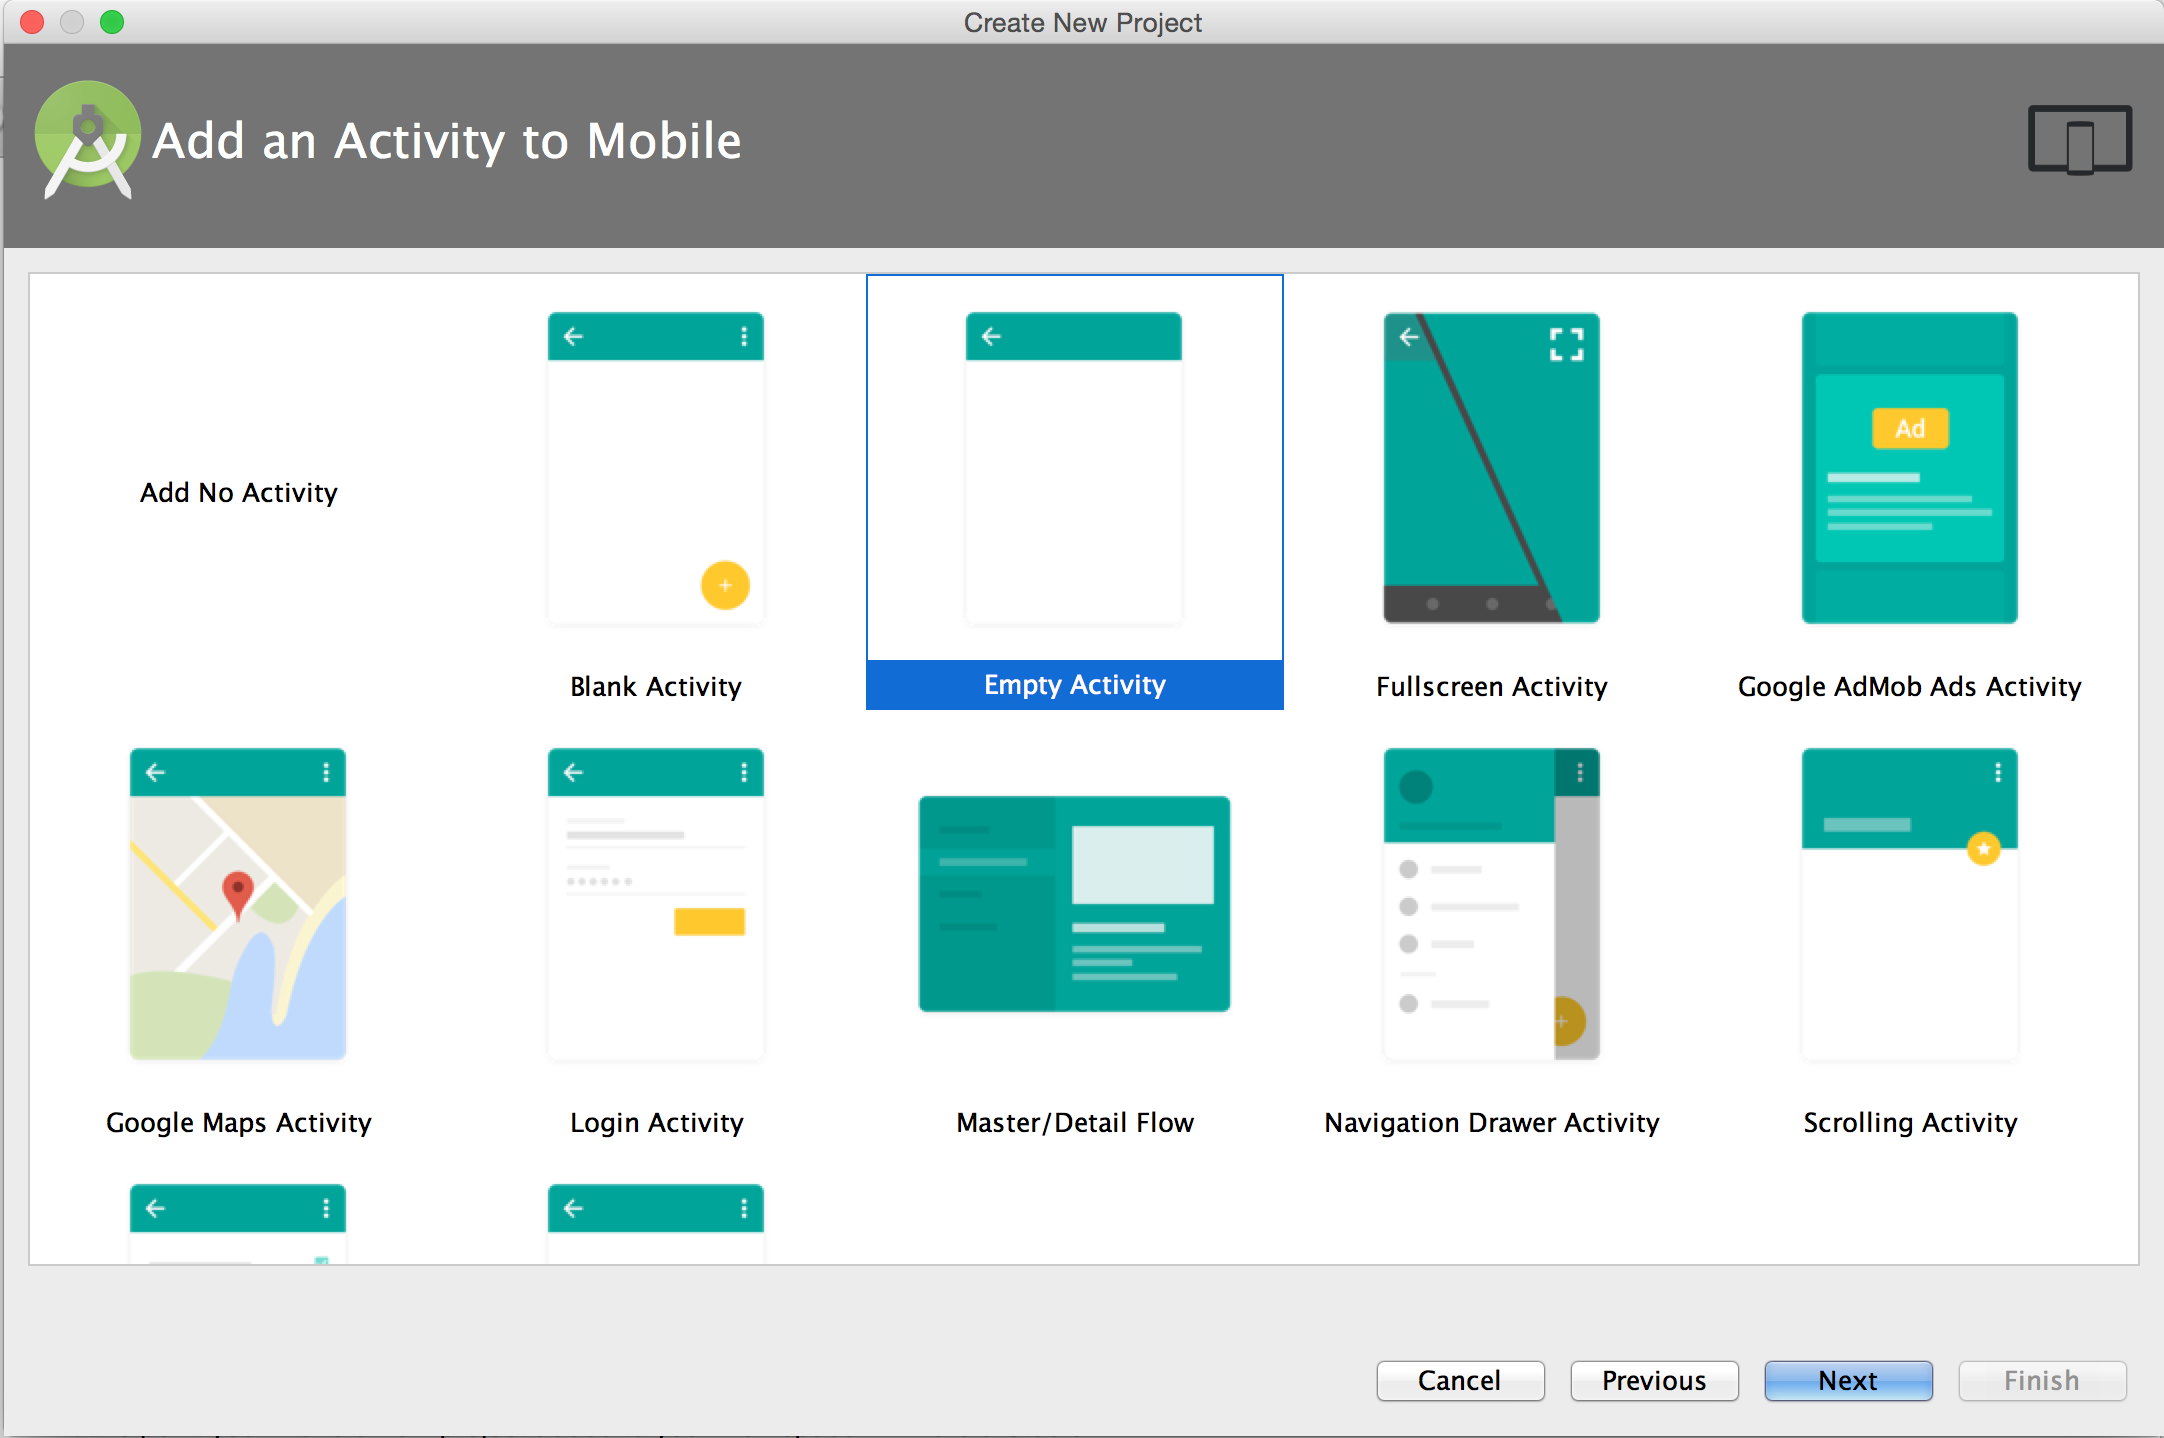
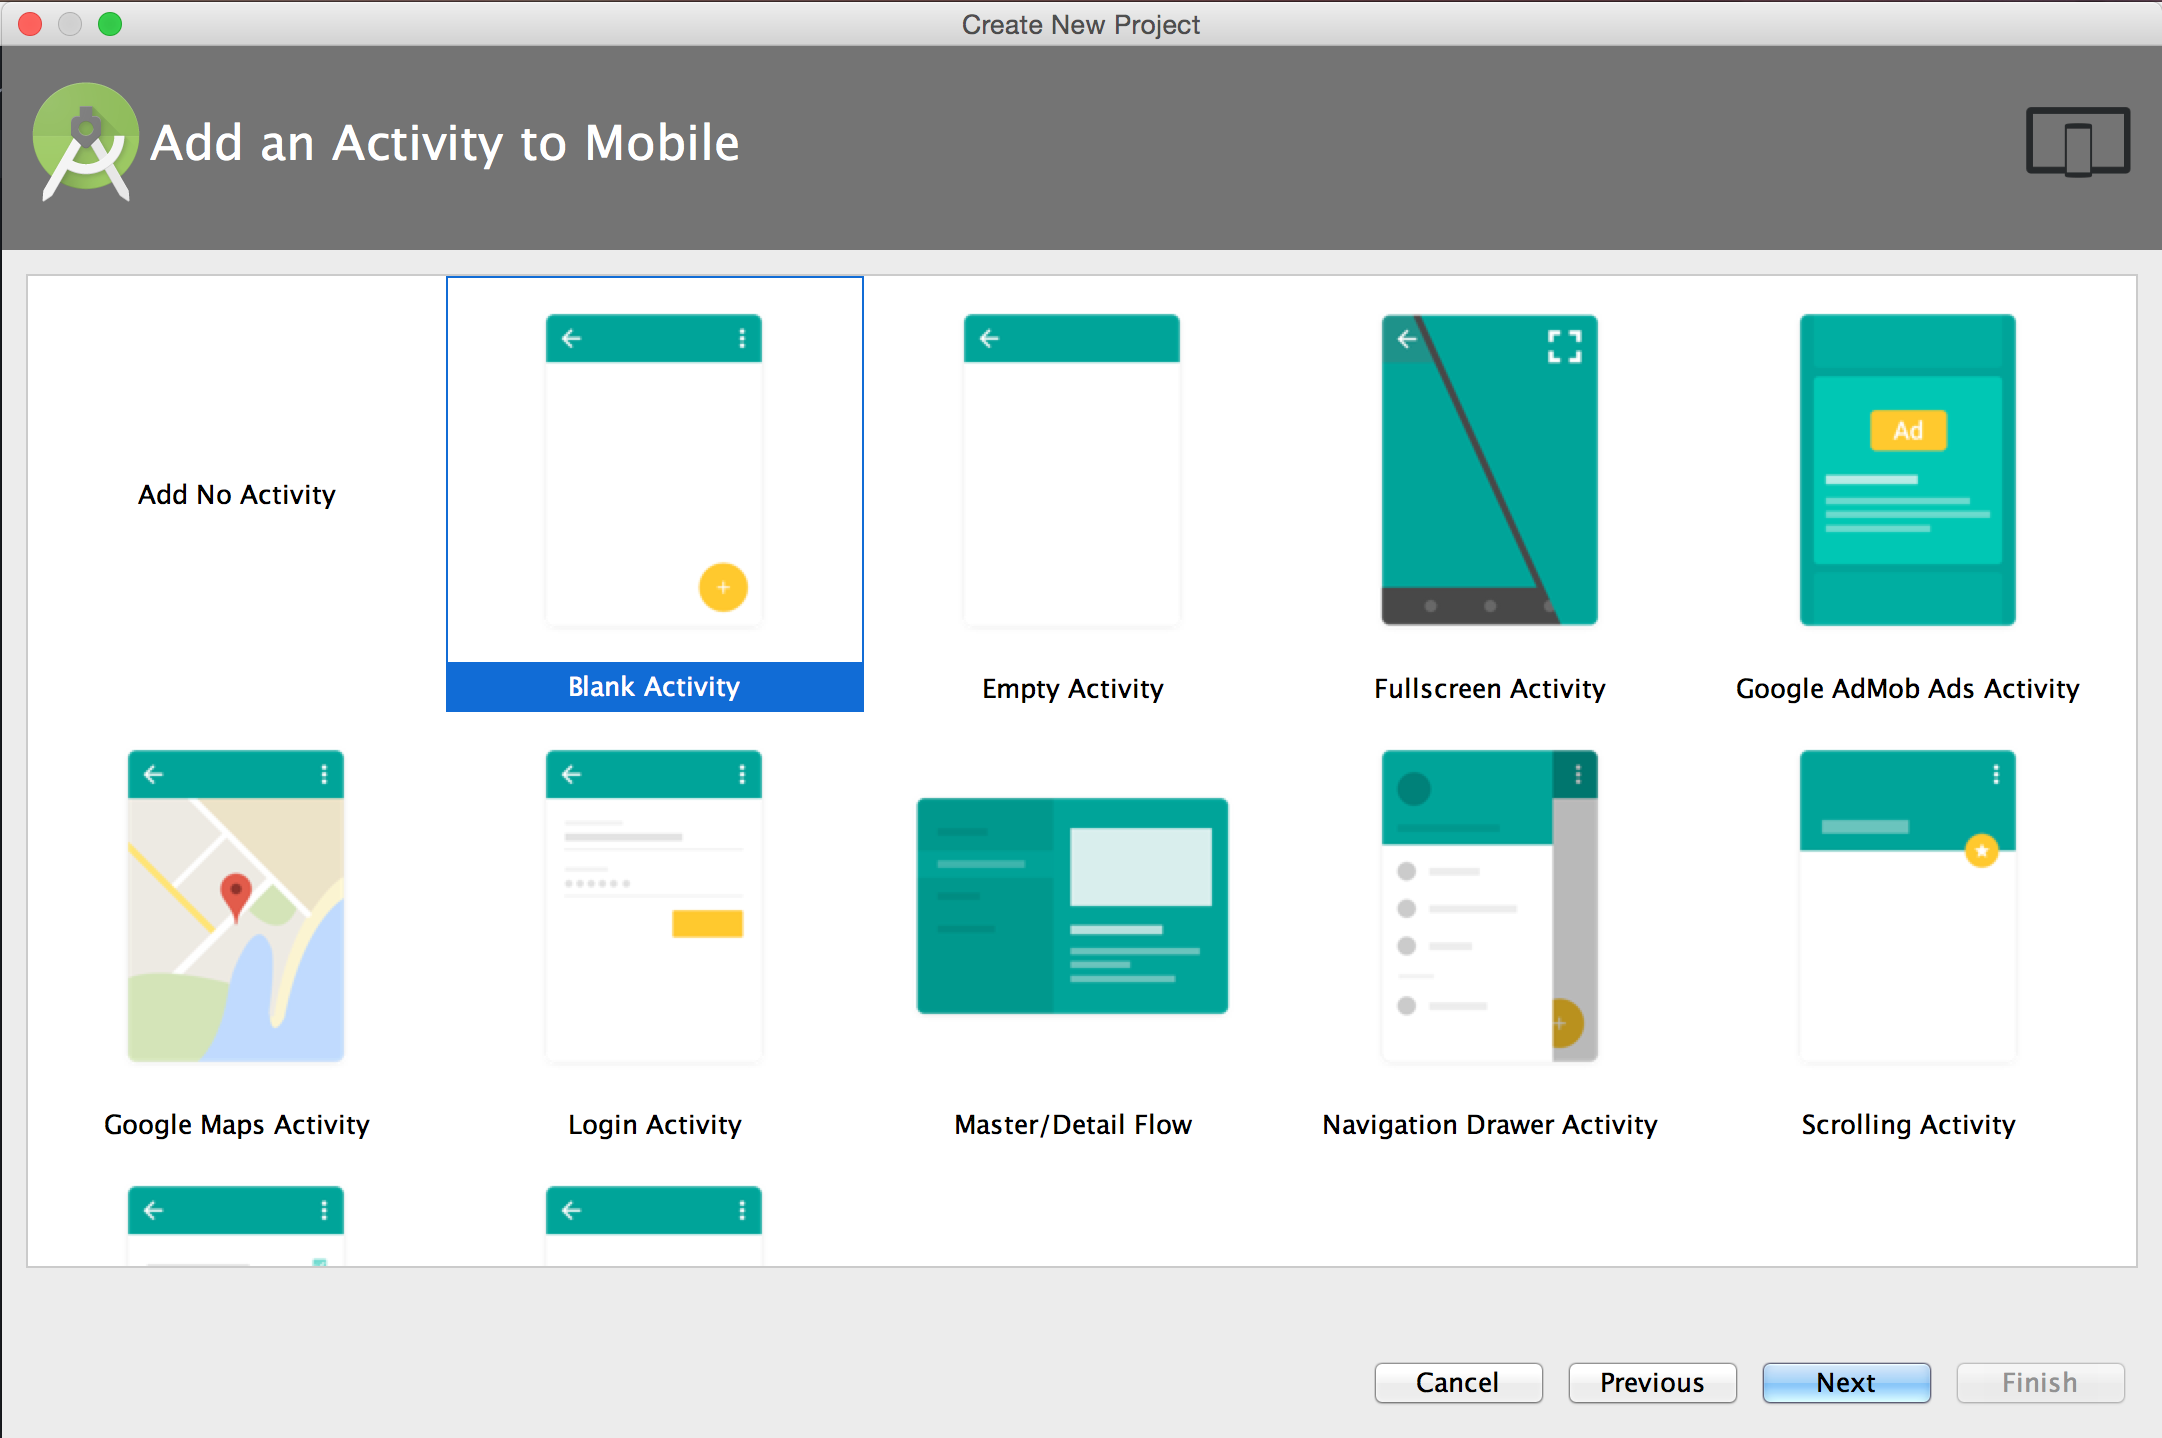
Revised Images and Assignment 1 Details

diff --git a/Assignments/Assignment1.md b/Assignments/Assignment1.md
@@ -31,21 +31,20 @@ So the following is going to be a walk through for accomplishing the requirement
 
 ![New Project Screen 1](https://raw.githubusercontent.com/CSUChico-CSCI567/CSCI567-Course-Materials/master/Assignments/Images/NewProject1.png "New Project Screen 1 for Android Studio")
 
+* You should name your project Hello World \<Your Name\>, as you can see in the dialogue above I've done the same for my name. This will make it easier for us to grade. Next you want to choose the target minimum SDK, you'll want to use the same as shown; however, we'll discuss what this means more later in the semester. Also do not enable any of the platforms other than Phone & Tablet:
+
+![New Project Screen 2](https://raw.githubusercontent.com/CSUChico-CSCI567/CSCI567-Course-Materials/master/Assignments/Images/NewProject2.png "New Project Screen 2 for Android Studio")
 
 
+* Next you'll want to create a blank activity:
 
-* You should name your project Hello World \<Your Name\>, as you can see in the dialogue above I've done the same for my name. This will make it easier for us to grade. Next you want to choose the target minimum SDK, you'll want to use the same as show; however, we'll discuss what this means more later in the semester. Also do not enable any of the platforms other than Phone & Tablet:
+![Select Activity Type](https://raw.githubusercontent.com/CSUChico-CSCI567/CSCI567-Course-Materials/master/Assignments/Images/NewProject3.png "New Project Screen 3 for Android Studio")
 
+* Next, customize your blank activity with the following:
 
+![Customize Activity](https://raw.githubusercontent.com/CSUChico-CSCI567/CSCI567-Course-Materials/master/Assignments/Images/NewProjectCustomize.png "Custom Activity Screen")
 
-    Next you'll want to create a blank fragment activity, as we'll want to go ahead and get used to using fragments as this is how Android recommends we handle UI and gives us more power:
-
-
-
-    Now just choose the defaults for the rest.
-
-
-At this point you'll have a new project added to your workspace in Android Studio.
+* Once that's finished you'll have a new project added to your workspace in Android Studio.
 
 The next step is to update the layout file. For this assignment what we'll be doing is programmatically putting a string into a TextView container. So you need to open up the layout xml file. This will be in the file "fragment_main.xml" by default. The following shows where the file is in the project directory:
 
